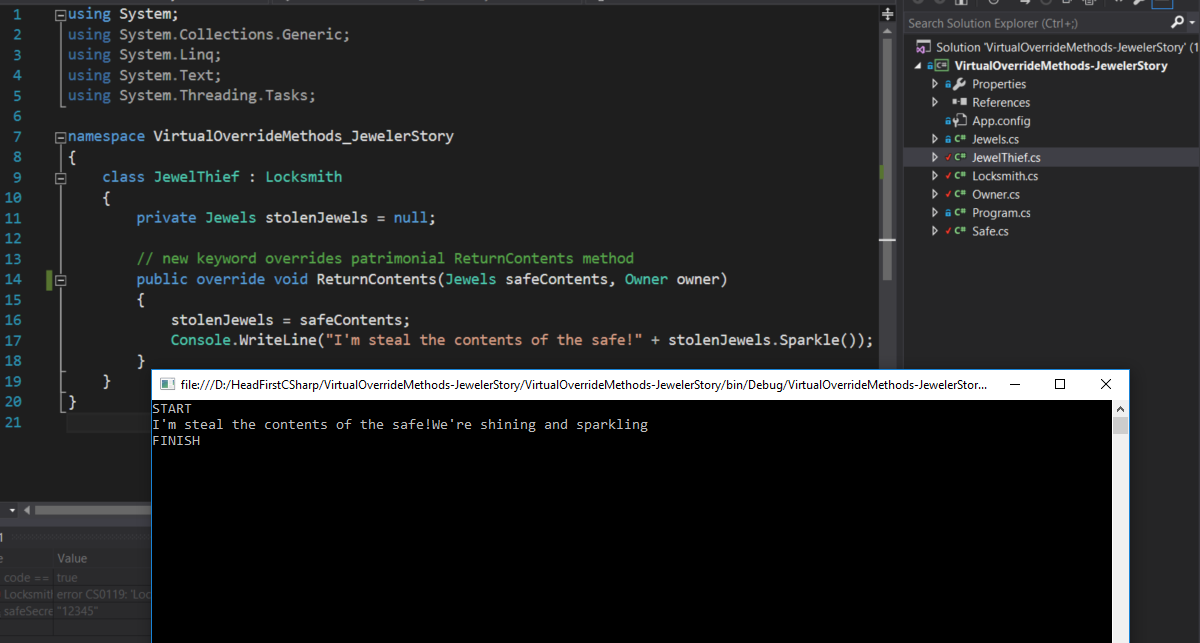
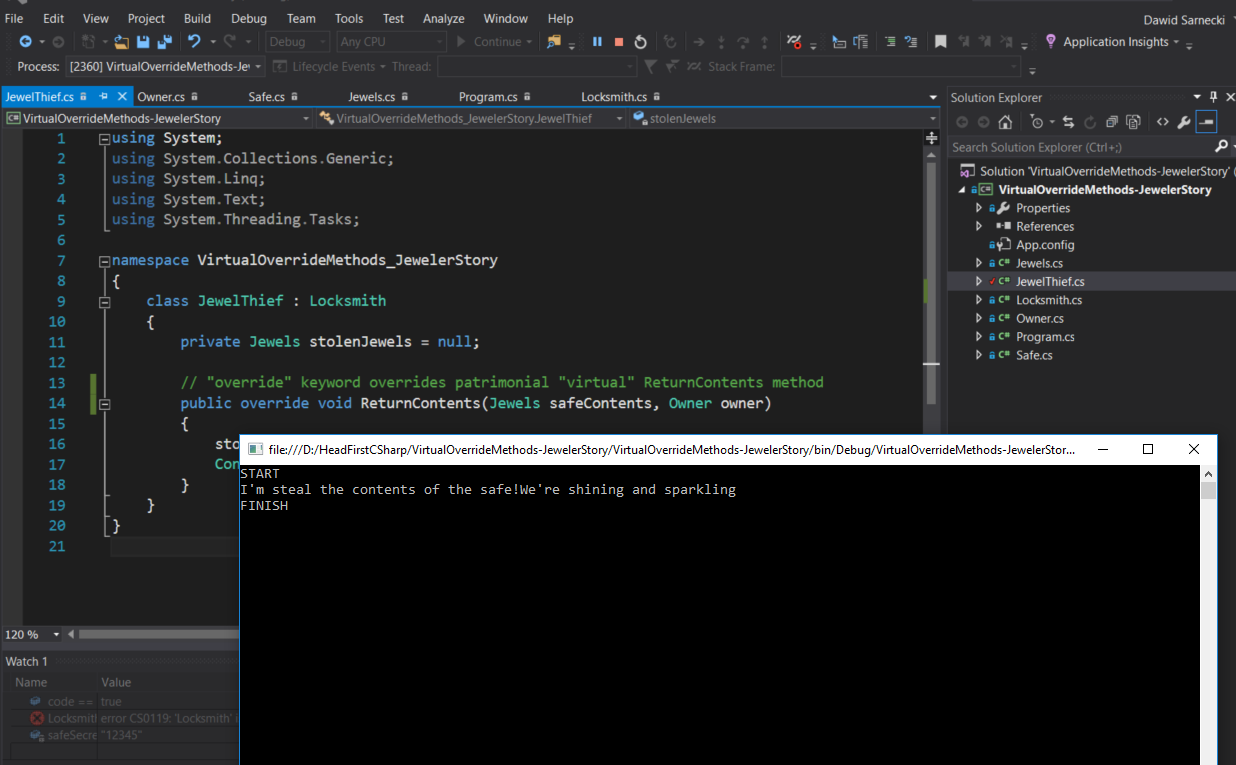
added-new-print-screen

Changed region(s): [[0.0, 0.0, 1.0, 1.0]]

diff --git a/VirtualOverrideMethods-JewelerStory/VirtualOverrideMethods-JewelerStory/JewelThief.cs b/VirtualOverrideMethods-JewelerStory/VirtualOverrideMethods-JewelerStory/JewelThief.cs
@@ -10,7 +10,7 @@ namespace VirtualOverrideMethods_JewelerStory
     {
         private Jewels stolenJewels = null;
 
-        // new keyword overrides patrimonial ReturnContents method
+        // "override" keyword overrides patrimonial "virtual" ReturnContents method 
         public override void ReturnContents(Jewels safeContents, Owner owner)
         {
             stolenJewels = safeContents;
